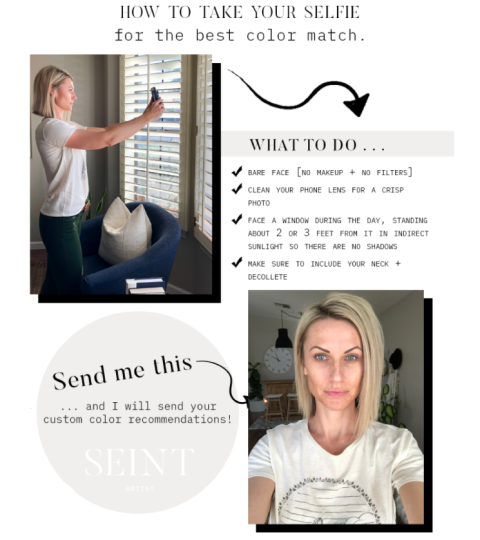
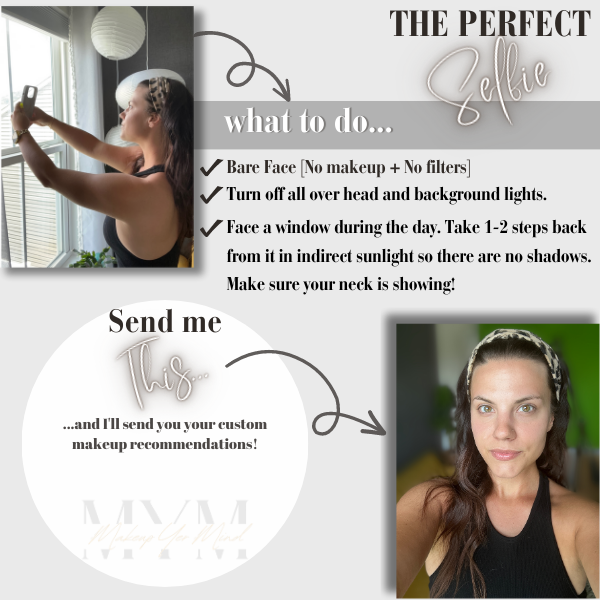
Replace how-to image for consultation form and reconfigure form height to ensure navigation buttons are visible for all screen types on initial page load.

diff --git a/app/makeup-consultation/page.module.css b/app/makeup-consultation/page.module.css
@@ -8,6 +8,15 @@
     line-height: 1.6;
 }
 
+@media screen and (min-width: 481px) {
+    .formDiv:nth-child(2) > p, 
+    .formDiv:nth-child(6) > p, 
+    .formDiv:nth-child(9) > p {
+        width: 80%;
+        margin-inline: auto;
+    }
+}
+
 @media screen and (orientation: landscape) {
     .main p {
         font-size: 16px;
@@ -20,11 +29,28 @@
     flex-direction: column;
     justify-content: space-between;
     margin-block: 24px 48px;
-    min-height: calc(100vh - 144px);
-    min-height: calc(100dvh - 144px);
+    height: 620px;
     overflow: hidden;
     max-width: 800px;
     margin-inline: auto;
+}
+
+@media screen and (min-width: 481px) {
+    .form {
+        height: 760px;
+    }
+}
+
+@media screen and (min-width: 1025px) {
+    .form {
+        max-width: 1000px;
+    }
+}
+
+@media screen and (orientation: landscape) {
+    .form {
+        height: 590px;
+    }
 }
 
 .page_counter {
@@ -50,12 +76,19 @@
 @media screen and (orientation: landscape) {
     .formDiv {
         row-gap: 24px;
-        padding-top: 72px;
+        padding-top: 20px;
     }
 }
 
 .formDiv:not(:nth-of-type(6)) {
     position: absolute;
+    height: fit-content;
+}
+
+@media screen and (min-width: 1025px) {
+    .formDiv:not(:nth-of-type(6)) {
+        padding-inline: 100px;
+    }
 }
 
 .formDiv > label {
@@ -90,7 +123,8 @@
 }
 
 .img_container {
-    height: 100%;
+    height: auto;
+    aspect-ratio: 1 / 1;
 }
 
 .img_container_selfie {
@@ -112,9 +146,8 @@
     }
 
     .img_container_selfie {
-        max-width: 500px;
-        max-height: 700px;
-        height: 80%;
+        width: 400px;
+        height: 600px;
         margin-inline: auto;
     }
 }
@@ -131,6 +164,11 @@
     object-fit: cover;
 }
 
+.form label:has(.img_container_selfie) span {
+    margin-inline: auto;
+    margin-bottom: 24px;
+}
+
 @media screen and (max-width: 480px) {
     .img_container img {
         max-height: 375px;
@@ -142,12 +180,23 @@
     .img_container img {
         display: block;
         margin-inline: auto;
-        max-width: 480px;
+        max-width: 500px;
         max-height: 540px;
     }
 }
 
 @media screen and (orientation: landscape) {
+    .formDiv:nth-of-type(6) {
+        display: grid;
+        grid-template-columns: 500px 1fr;
+        row-gap: 48px;
+        width: 1000px;
+    }
+
+    .formDiv:nth-of-type(6) > p:first-child {
+        align-self: end;
+    }
+
     .img_container,
     .img_container_selfie {
         max-width: 500px;
@@ -156,11 +205,13 @@
     }
 
     .img_container {
-        margin-bottom: 24px;
+        grid-column: 1;
+        grid-row: 1 / span 2;
     }
 
     .img_container_selfie {
-        height: 600px;
+        width: 400px;
+        height: 450px;
     }
 
     .img_container img,
@@ -178,11 +229,6 @@
     .formDiv:has(.img_container) p {
         max-width: 500px;
         margin-inline: auto;
-    }
-
-    .form label:has(.img_container_selfie) span {
-        margin-inline: auto;
-        margin-bottom: 24px;
     }
 }
 
@@ -227,9 +273,10 @@
 }
 
 .btnDiv {
-    position: relative;
-    margin-top: auto;
-    margin-inline: auto;
+    position: absolute;
+    bottom: 0;
+    left: 50%;
+    transform: translateX(-50%);
     height: fit-content;
     width: 100%;
     max-width: 500px;
